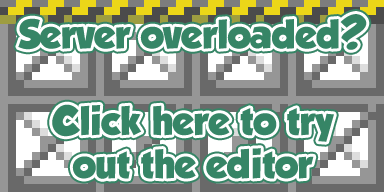
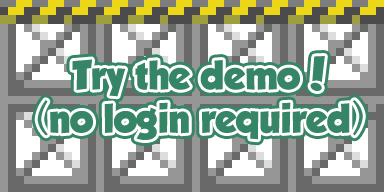
demo mode

diff --git a/Games/Dobbsworks/js/app.js b/Games/Dobbsworks/js/app.js
@@ -178,7 +178,7 @@ function CreateTestMap() {
     MenuHandler.CreateMenu(InitialMenu);
 }
 var player;
-var isDemoMode = false;
+var isDemoMode = window.location.href.toLowerCase().indexOf("dobbsworks.github.io") > -1;
 var allDemoLevels = [
     // Piggle Plains
     "0.12.0;12;0;0;3|#00dddd,#eeeeff,0.00,1.00,0.40;AA,#ffffff,-0.25,0,0.05,0,0,0;AB,#5959a5,0,0,0.1,0,1,0;AC,#14b714,0,0,0.2,0,1,0;AD,#10a010,0,0,0.3,0,1,0|AA/AA/AA/AA/AAWABGAAEABGAAEABGAAEABGAAEABGAA/AA/AA/AA/AA/AA/AA/AA/AA/AA/AA/AA/AA/AAQABEAAGABEAAGABEAAGABEAA/AA/AAWABEAAGABEAAGABEAAGABEAA/AA/AA/AA/AAH|AA/AA/AA/AA/AA/AA/AA/AA/AA/AAoADAABFAAEADAABFAAEADAABFAAEADAABFAAEADAABFAAEADAABFAAEADAABFAAEADAABFAAEADAABFAAEADAABFAAEADAABFAAEADAABFAAEADAABFAAEADAABFAAEADAABFAAEADAABFAAEADAABFAAEADAABFAAEADAABFAAEADAABFAA/AA/AA/AA/AA/AA/AA/AA/AA/AA/AA/AA/AA7|AAIABBACAAAIABCAAIACAABBAAIABAACAABAAAIABCAAIABCAAIABBACAAAIACAABBAAHAGAABCAAIABCAAIABCAAGABBACAABBAAGABEAAGABDACAAAGABEAAGABBACAABBAAGABEAAHABDAAHACAABAACAABAAAHABDAAHABDAAHABAACAABBAAHAIAABCAAIAIAABBAAJABBAAJACAABAAACAEGABBAAJABAACAAAJABBAAJABBAAIABCAAIABCAAIABBACAAAIABCAAtACAABAAAJABBAAJABBAAJABBAAfABDAAGAGAABDAAHABBACAABAAAHABDAAEABCACAABBACAAAEACAABFAAEABBACAABDAADBuAABEACAABAAADBuAAAFABAAADBuAAAFABAAAKABAAAKABAAAKABAAAKABAAAKABAAAKABAAAKABAAAKABAAAKABAAAKABAAAKABAAAKABAAAKABAAAKABAAAKABAAAKABAAAKABAAAKABAAAEABGAAEABGAAEABGAAGABEAAGABEAAGABEAAIABCAAIABCAAIABCAAJABBAAJABBAAICIAABBAAJABBAAJABBAAJABBAAJABBAAJABBAAJABBAAJABBAAJABBAAJABBAAJABBAAJABBAAJABBAAJABBAAJABBAAJABBAAJABBAA/AA/AA/AA/AAcABCAAIABCAAIABCAAIABCAAIABCAAIABCAAIABCAAIABCAAIABCAAIABCAAJABBAAJABBAAJABBAAJABBAAJABBAAJABBAAJABBAAJABB|AAIABAAAKABAAAKABAAAKABAAAKABAAAKABAAAKABAAAKABAAAKABAAAKABAAAKABAAAIABAAAKABAAAKABAAAKABAAAKABAAAKABAAALABAAAKABAAAKABAAAKABAAAKABAAARABAAAKABAAAFABAAADABAAAFABAAADABAAAFABAAADABAAAFABAAAKABAAAKABAAAJABAAAKABAAAKABAAAKABAAAvABAAAKABAAAKABAAAKABAAAgABAAAKABAAAKABAAAKABAAAHABAAAKABAAAKABAAAKABAAAKACAAAKACAAA/AA/AA/AAiABAAAKABAAAKABAAAMABAAAKABAAAKABAAAMABAAAKABAAAKABAAALABAAAKABAAAKABAAAKABAAAKABAAAKABAAAKABAAAKABAAAKABAAAKABAAAKABAAAKABAAAKABAAAKABAAAKABAAAKABAAAKABAAAKABAAAHABAAABABAAAHABAAAKABAAAKABAAA/AA/AAaABAAAKABAAAKABAAAKABAAA8ABAAAKABAAAKABAAAKABAAAKABAAAKABAAAKABAAAKABAAAKABAAAKABAAALABAAAKABAAAKABAAAKABAAAKABAAAKABAAAKABAAAKABAAAA|AA/AA/AA/AA/AA/AA/AA/AA/AA/AA/AA/AA/AA/AA/AA/AA/AA/AA/AA/AA/AA/AA/AA/AA/AA/AA/AAP|ABCGAF;A6AYAC;AEAPAG;AEAgAI;AzAiAG;AzAjAF;AzAkAG;AEAxAE;AbA8AGAD;A0A9AC;AlA2AJ;AlA/AH;A5BIAE;AEBLAG;AEBOAI;A4BcAJ;AzBZAG;AzBYAG;AzBXAG;AEBiAG;AEBiAF;AdBoAIAD;AdBtAI;AEB0AG;AFCAAH;AAAEAI",

diff --git a/Games/Dobbsworks/js/ui/menu/mainMenu.js b/Games/Dobbsworks/js/ui/menu/mainMenu.js
@@ -34,8 +34,7 @@ var MainMenu = /** @class */ (function (_super) {
         playText.xOffset = playButtonWidth / 2 - 5;
         playText.yOffset = 40;
         playButton.isNoisy = true;
-        if (!isDemoMode)
-            ret.push(playButton);
+        ret.push(playButton);
         var myLevelsButton = new Button(playButtonX, playButtonY + playButtonHeight + 10, playButtonWidth, playButtonHeight);
         var myLevelsText = new UIText(centerX, playButtonY + 40, "My Levels", 30, "#000");
         myLevelsButton.AddChild(myLevelsText);
@@ -45,7 +44,7 @@ var MainMenu = /** @class */ (function (_super) {
         if (!isDemoMode)
             ret.push(myLevelsButton);
         var demoLevelsButton = new Button(playButtonX, playButtonY + playButtonHeight + 10, playButtonWidth, playButtonHeight);
-        var demoLevelsText = new UIText(centerX, playButtonY + 40, "GDB Levels", 30, "#000");
+        var demoLevelsText = new UIText(centerX, playButtonY + 40, "Demo Levels", 30, "#000");
         demoLevelsButton.AddChild(demoLevelsText);
         demoLevelsText.xOffset = playButtonWidth / 2 - 5;
         demoLevelsText.yOffset = 40;
@@ -65,6 +64,10 @@ var MainMenu = /** @class */ (function (_super) {
             b.mouseoverBackColor = "#f73738";
             b.borderColor = "#000";
             b.borderRadius = 9;
+            b.onClickEvents.push(function () {
+                // don't save checkpoints from main menu
+                editorHandler.grabbedCheckpointLocation = null;
+            });
         });
         playButton.onClickEvents.push(function () {
             editorHandler.isEditorAllowed = true;

diff --git a/Games/Dobbsworks/js/ui/menu/pauseMenu.js b/Games/Dobbsworks/js/ui/menu/pauseMenu.js
@@ -56,6 +56,7 @@ var PauseMenu = /** @class */ (function (_super) {
                 audioHandler.SetBackgroundMusic("menuJazz");
                 editorHandler.grabbedCheckpointLocation = null;
                 DeathLogService.LogDeathCounts();
+                currentDemoIndex = -1;
             });
         }
         if (!editorHandler.grabbedCheckpointLocation) {
@@ -80,7 +81,7 @@ var PauseMenu = /** @class */ (function (_super) {
                 PauseMenu.UnpauseTime = new Date();
                 audioHandler.SetLowPass(false);
                 PauseMenu.IsPaused = false;
-                player.OnPlayerHurt();
+                player.OnPlayerDead();
             });
             var retryFromStartButton = this.CreateButton("Retry From Start", 0.45);
             row.AddChild(retryFromStartButton);
@@ -90,7 +91,7 @@ var PauseMenu = /** @class */ (function (_super) {
                 PauseMenu.UnpauseTime = new Date();
                 audioHandler.SetLowPass(false);
                 PauseMenu.IsPaused = false;
-                player.OnPlayerHurt();
+                player.OnPlayerDead();
             });
         }
         // editorHandler.grabbedCheckpointLocation = null;

diff --git a/Games/Dobbsworks/js/ui/menu/mainMenu.ts b/Games/Dobbsworks/js/ui/menu/mainMenu.ts
@@ -18,7 +18,7 @@ class MainMenu extends Menu {
         playText.xOffset = playButtonWidth / 2 - 5;
         playText.yOffset = 40;
         playButton.isNoisy = true;
-        if (!isDemoMode) ret.push(playButton);
+        ret.push(playButton);
 
         let myLevelsButton = new Button(playButtonX, playButtonY + playButtonHeight + 10, playButtonWidth, playButtonHeight);
         let myLevelsText = new UIText(centerX, playButtonY + 40, "My Levels", 30, "#000");
@@ -29,7 +29,7 @@ class MainMenu extends Menu {
         if (!isDemoMode) ret.push(myLevelsButton);
 
         let demoLevelsButton = new Button(playButtonX, playButtonY + playButtonHeight + 10, playButtonWidth, playButtonHeight);
-        let demoLevelsText = new UIText(centerX, playButtonY + 40, "GDB Levels", 30, "#000");
+        let demoLevelsText = new UIText(centerX, playButtonY + 40, "Demo Levels", 30, "#000");
         demoLevelsButton.AddChild(demoLevelsText);
         demoLevelsText.xOffset = playButtonWidth / 2 - 5;
         demoLevelsText.yOffset = 40;

diff --git a/Games/DabbleWorlds/versionHistory.html b/Games/DabbleWorlds/versionHistory.html
@@ -45,6 +45,7 @@
             <li>Several panels have had their vertical order flipped to their intended order</li>
             <li>Hitting the goal gear while testing from the editor now pops up a quick display of your clear time</li>
             <li>On/off toggles (like the Player swim mode button) now have a purple border when off to more clearly indicate they aren't a normal button</li>
+            <li>Clicking an item in the editor panels now closes the drawers. Shift-clicking keeps the drawers open</li>
             <li>When all items are removed from hotbar, editor now switches to select tool</li>
             <li>Added keyboard binding for quick retry (T on keyboard) for users without controllers (select still works on gamepad)</li>
             <li>You can now tap the retry button on the level success menu to immediately replay a level after beating it</li>

diff --git a/Games/Dobbsworks/js/ui/menu/recentLevelsMenu.js b/Games/Dobbsworks/js/ui/menu/recentLevelsMenu.js
@@ -68,7 +68,6 @@ var RecentLevelsMenu = /** @class */ (function (_super) {
     RecentLevelsMenu.prototype.PopulateLevelPanel = function () {
         var _this = this;
         if (this.levelPanel) {
-            console.log(this.levelPanel);
             var scrollIndex = this.levelPanel.scrollIndex;
             this.levelPanel.scrollIndex = 0;
             this.levelPanel.children = [];

diff --git a/Games/Dobbsworks/js/systems/version.js b/Games/Dobbsworks/js/systems/version.js
@@ -25,6 +25,6 @@ var Version = /** @class */ (function () {
     Version.IsLevelVersionNewerThanClient = function (levelVersion) {
         return Version.Compare(Version.Current, levelVersion) == -1;
     };
-    Version.Current = "1.1.0";
+    Version.Current = "1.1.1";
     return Version;
 }());

diff --git a/Games/Dobbsworks/js/ui/menu/pauseMenu.ts b/Games/Dobbsworks/js/ui/menu/pauseMenu.ts
@@ -42,6 +42,7 @@ class PauseMenu extends Menu {
                 audioHandler.SetBackgroundMusic("menuJazz");
                 editorHandler.grabbedCheckpointLocation = null;
                 DeathLogService.LogDeathCounts();
+                currentDemoIndex = -1;
             });
         }
 

diff --git a/Games/Dobbsworks/js/app.ts b/Games/Dobbsworks/js/app.ts
@@ -179,7 +179,7 @@ function CreateTestMap() {
 }
 
 var player: Player;
-var isDemoMode = false;
+var isDemoMode = window.location.href.toLowerCase().indexOf("dobbsworks.github.io") > -1;
 
 
 var allDemoLevels = [
